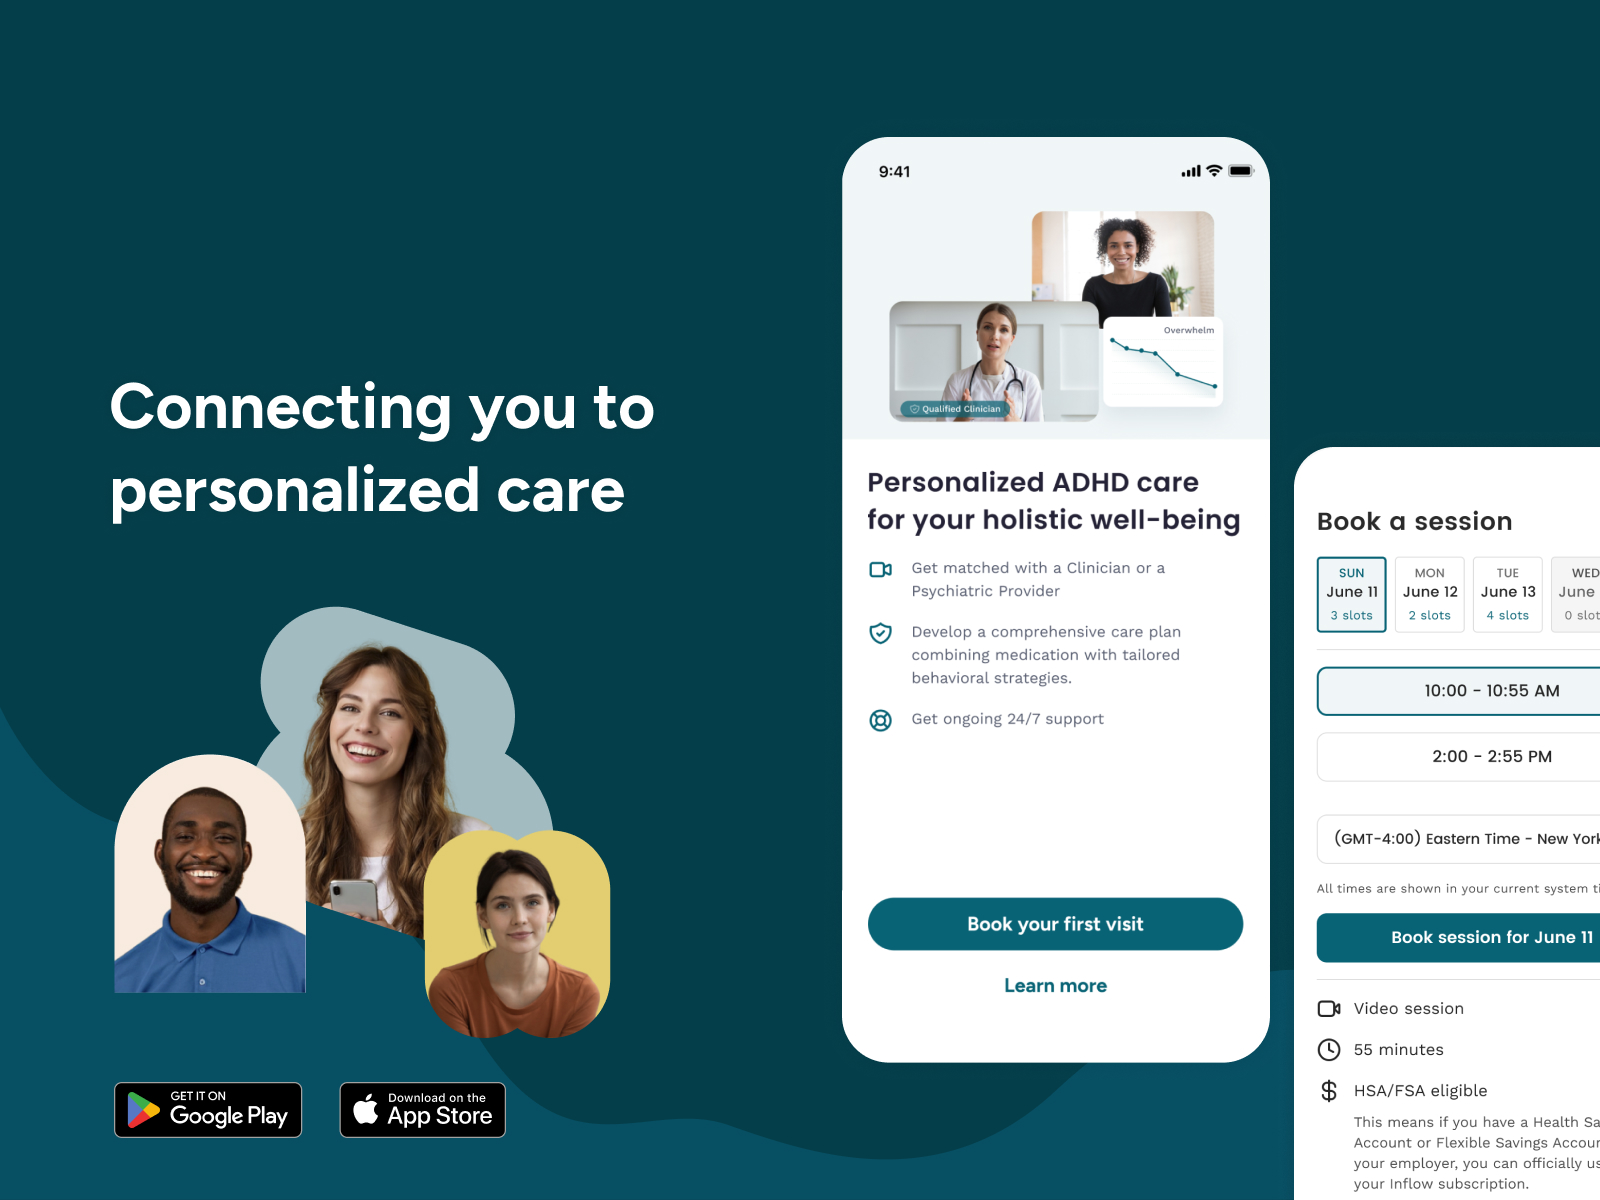
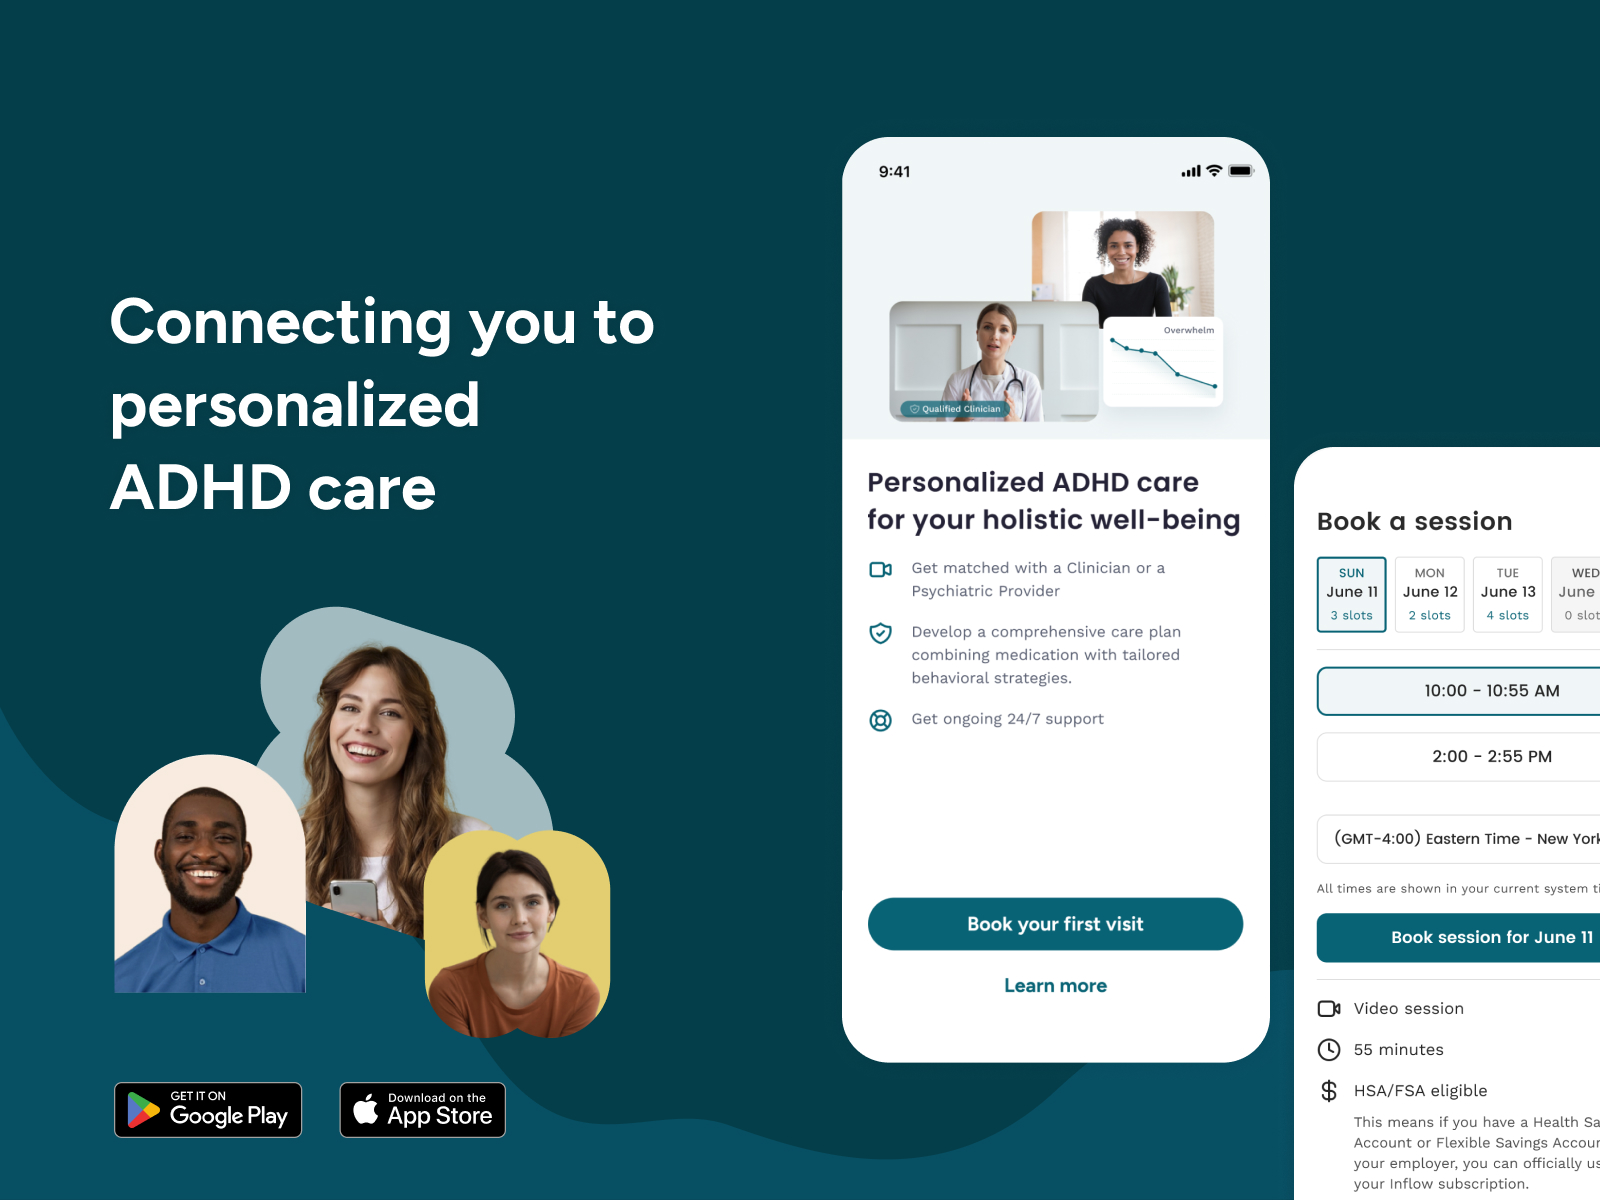
add inflow images

Changed region(s): [[0.0625, 0.2467, 0.4062, 0.4317]]

diff --git a/inflow.html b/inflow.html
@@ -52,7 +52,7 @@
 							<!-- When you will add your own logo, make sure to add your logo´s width and height sizes -->
 							<!-- Adding retina/HDPi support is so easy as adding a double sized image within the srcset attribute with the '2x' descriptor. -->
 							<!-- The src attribute will display the regular size logo -->
-							<a href="./index.html"><img srcset="images/logo@2x-new.png 2x" src="images/logo-new.png" width="27" height="45" alt="Eric Puigmarti — Lead Product Designer"></a>
+							<a href="./index.html"><img srcset="" src="images/logo.svg" width="27" height="45" alt="Eric Puigmarti — Lead Product Designer"></a>
 						</div>
 					</div>
 					<!-- Main navigation -->
@@ -115,20 +115,23 @@
 										<li data-target="#sldr-02" data-slide-to="0" class="active"></li>
 										<li data-target="#sldr-02" data-slide-to="1"></li>
 										<li data-target="#sldr-02" data-slide-to="2"></li>
-										<!-- <li data-target="#sldr-02" data-slide-to="3"></li> -->
+										<li data-target="#sldr-02" data-slide-to="3"></li>
 										<!-- <li data-target="#sldr-02" data-slide-to="4"></li> -->
 									</ol>
 
 									<!-- Wrapper for images -->
 									<div id="project-01" class="carousel-inner" role="listbox">
 										<figure class="item active">
-											<img src="images/projects/inflow-slider-3.jpg" height="800" width="1380" alt="image description" class="img-responsive">
+											<img src="images/projects/inflow-slider-3.jpg" height="800" width="1380" alt="Inflow, connecting your to personalized ADHD care" class="img-responsive">
 										</figure>
 										<figure class="item">
-											<img src="images/projects/inflow-slider-1.jpg" height="800" width="1380" alt="image description" class="img-responsive">
+											<img src="images/projects/inflow-slider-1.jpg" height="800" width="1380" alt="A series of screenshots from the Inflow app" class="img-responsive">
 										</figure>
 										<figure class="item">
-											<img src="images/projects/inflow-slider-2.jpg" height="800" width="1380" alt="image description" class="img-responsive">
+											<img src="images/projects/inflow-slider-2.jpg" height="800" width="1380" alt="Interactive lessons, a more engaging way to learn" class="img-responsive">
+										</figure>
+										<figure class="item">
+											<img src="images/projects/inflow-slider-4.jpg" height="800" width="1380" alt="Inflow, Design system" class="img-responsive">
 										</figure>
 									</div>
 								</div>
